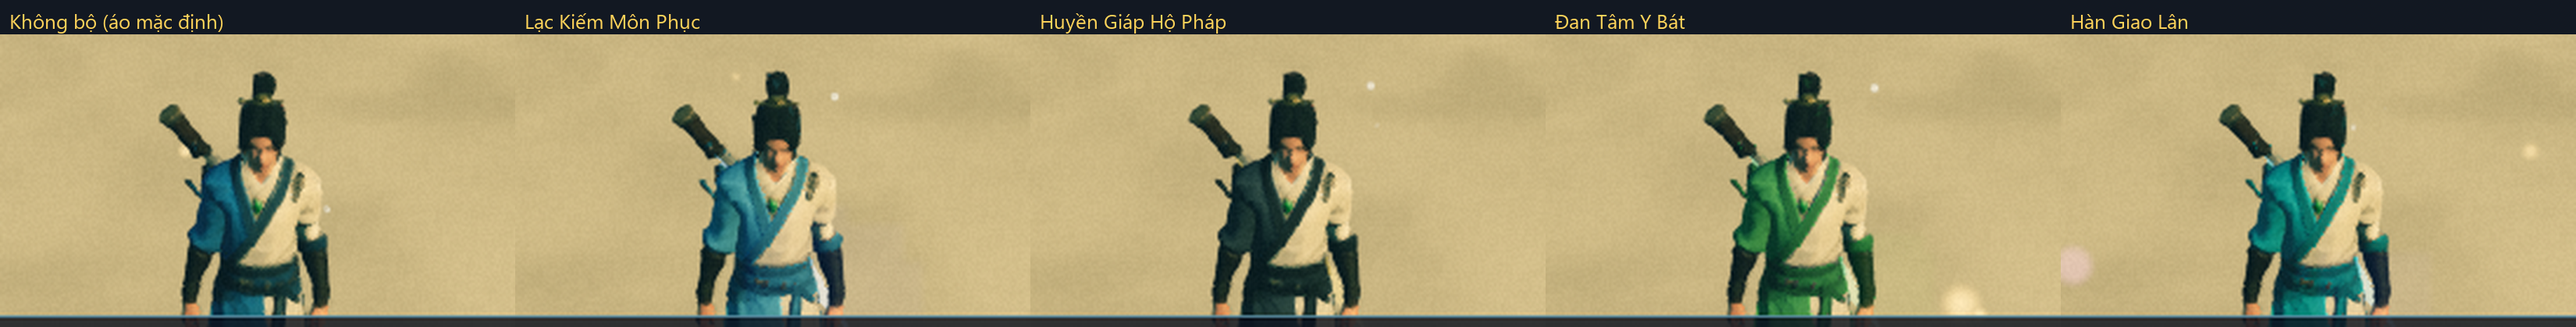
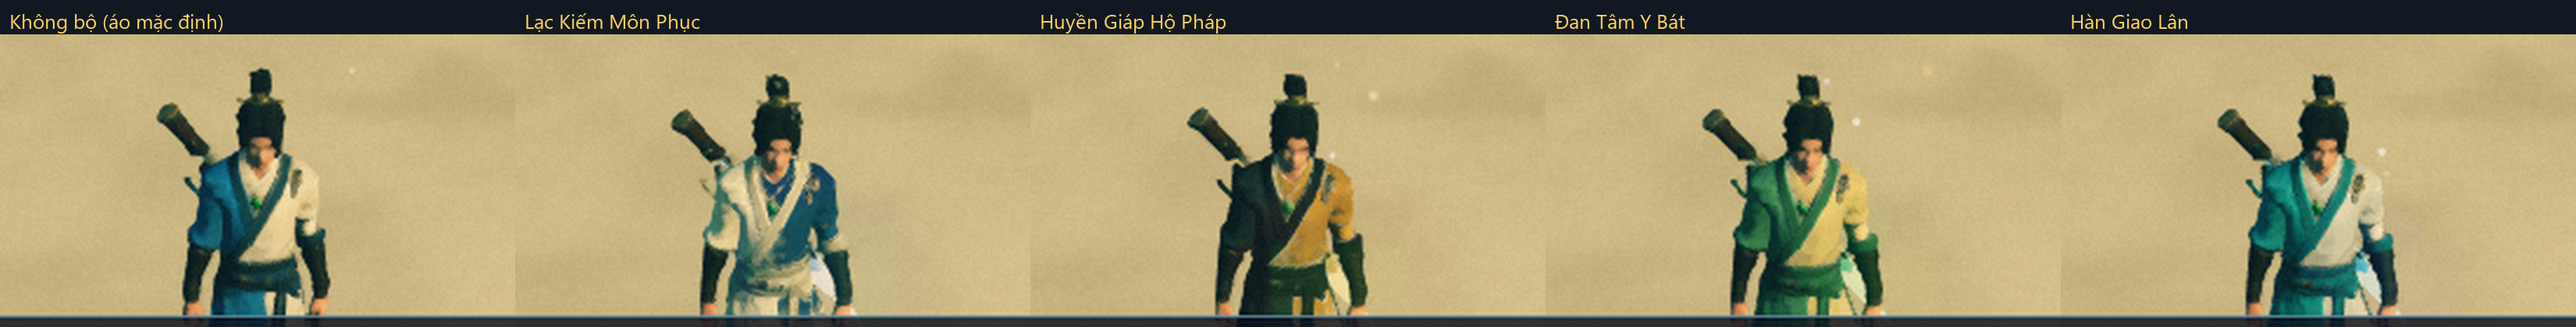
fix: P3-4 phối màu bộ rõ hơn (màu phụ cho vùng vải sáng), kẹp tooltip trong khung nhìn

diff --git a/apps/client/src/game/character/dye.ts b/apps/client/src/game/character/dye.ts
@@ -18,6 +18,10 @@ const LUMA = new THREE.Vector3(0.2126, 0.7152, 0.0722);
 /** Ngưỡng cos(góc) giữa sắc độ texel và sắc độ vải. */
 const COS_LO = 0.7;
 const COS_HI = 0.85;
+/** Vùng vải sáng (ngà) cho màu phụ của bộ: ngưỡng độ sáng tuyến tính và độ sáng tham chiếu của vải ngà. */
+const ACCENT_LO = 0.5;
+const ACCENT_HI = 0.68;
+const ACCENT_REF = 0.75;
 /** Ngưỡng độ bão hòa tương đối (|sắc độ| / độ sáng trung bình). */
 const SAT_LO = 0.12;
 const SAT_HI = 0.24;
@@ -37,8 +41,8 @@ function linear(hex: string): THREE.Color {
  * Gắn `colorNode` nhuộm áo vào material đã chuyển từ glTF (giữ map, color, alpha của nó).
  * `clothRef`: màu vải trong texture (hex sRGB); `dye`: màu áo đã chọn. Cùng màu thì giữ nguyên material.
  */
-export function applyDye(m: THREE.MeshStandardNodeMaterial, clothRef: string, dye: string): THREE.MeshStandardNodeMaterial {
-  if (clothRef.toLowerCase() === dye.toLowerCase()) return m;
+export function applyDye(m: THREE.MeshStandardNodeMaterial, clothRef: string, dye: string, accent?: string): THREE.MeshStandardNodeMaterial {
+  if (!accent && clothRef.toLowerCase() === dye.toLowerCase()) return m;
   const ref = linear(clothRef);
   const target = linear(dye);
   const dir = chromaDir(ref);
@@ -56,7 +60,17 @@ export function applyDye(m: THREE.MeshStandardNodeMaterial, clothRef: string, dy
   const ratio = dot(c, vec3(LUMA.x, LUMA.y, LUMA.z)).div(refLum);
   const gamma = targetLum > refLum ? 0.6 : 1;
   const dyed = min(vec3(target.r, target.g, target.b).mul(pow(ratio, float(gamma))), vec3(1, 1, 1));
-  m.colorNode = vec4(mix(c, dyed, mask), base.a);
+  let out = mix(c, dyed, mask);
+  if (accent) {
+    // Bộ trang bị: vùng vải sáng (áo trong màu ngà, nẹp) đổi sang màu phụ của bộ, giữ vân và nếp gấp theo độ sáng texel.
+    // Da và tóc nằm dưới ngưỡng độ sáng này nên không bị đụng tới.
+    const acc = linear(accent);
+    const lum = dot(c, vec3(LUMA.x, LUMA.y, LUMA.z));
+    const light = smoothstep(ACCENT_LO, ACCENT_HI, lum).mul(float(1).sub(mask));
+    const tinted = min(vec3(acc.r, acc.g, acc.b).mul(lum.div(ACCENT_REF)), vec3(1, 1, 1));
+    out = mix(out, tinted, light);
+  }
+  m.colorNode = vec4(out, base.a);
   m.needsUpdate = true;
   return m;
 }

diff --git a/apps/client/src/game/character/playerSkins.ts b/apps/client/src/game/character/playerSkins.ts
@@ -102,7 +102,7 @@ function modelOf(g: string): string | null {
 function dyeOf(id: string, set?: string) {
   const look = set ? SET.get(set)?.look : undefined;
   // Bộ trang bị nhuộm áo bằng chính cơ chế `applyDye` (tham số material), id riêng để không đụng cache màu thường.
-  if (look) return { id: `set:${set}`, hex: look.hex, trim: look.trim };
+  if (look) return { id: `set:${set}`, hex: look.hex, trim: look.trim, accent: look.trim };
   return DYE.get(id) ?? DYE.get(APPEARANCE.defaultDye)!;
 }
 
@@ -141,7 +141,7 @@ export class PlayerSkins {
     if (id && skin && !this.legacy) this.load(id);
     const t = id && skin && !this.legacy ? this.templates.get(id) : undefined;
     if (!id || !skin || !t || typeof t === 'string') return new Humanoid({ robe: dye.hex, trim: dye.trim, sword: true });
-    return this.build(id, skin, t, this.material(id, skin, t, dye.id, dye.hex));
+    return this.build(id, skin, t, this.material(id, skin, t, dye.id, dye.hex, 'accent' in dye ? dye.accent : undefined));
   }
 
   /** Asset người của `look` chưa nạp xong (bóng tâm ma tạm dùng model khối của quái). */
@@ -249,7 +249,7 @@ export class PlayerSkins {
     return m;
   }
 
-  private material(id: string, skin: PlayerSkin, t: Template, dyeId: string, hex: string): THREE.MeshStandardNodeMaterial {
+  private material(id: string, skin: PlayerSkin, t: Template, dyeId: string, hex: string, accent?: string): THREE.MeshStandardNodeMaterial {
     const key = `${id}/${dyeId}`;
     let m = this.mats.get(key);
     if (m) return m;
@@ -258,7 +258,7 @@ export class PlayerSkins {
       const mesh = o as THREE.Mesh;
       if (!src && mesh.isMesh) src = Array.isArray(mesh.material) ? mesh.material[0] : mesh.material;
     });
-    m = adoptGltfMaterials(new THREE.Mesh(undefined, src ?? undefined), (x) => applyDye(x, skin.clothRef, hex))[0];
+    m = adoptGltfMaterials(new THREE.Mesh(undefined, src ?? undefined), (x) => applyDye(x, skin.clothRef, hex, accent))[0];
     this.mats.set(key, m);
     return m;
   }

diff --git a/apps/client/src/ui/kit/Tooltip.tsx b/apps/client/src/ui/kit/Tooltip.tsx
@@ -33,6 +33,8 @@ export function Tooltip({ content, children }: { content: ReactNode; children: R
     const b = tip.current.getBoundingClientRect();
     let y = a.top - b.height - GAP;
     if (y < MARGIN) y = a.bottom + GAP;
+    // Hết chỗ cả hai phía (chú giải dài): ép vào trong màn hình, chấp nhận che nhẹ ô gốc thay vì tràn mép dưới.
+    y = Math.max(MARGIN, Math.min(y, window.innerHeight - b.height - MARGIN));
     const x = Math.min(Math.max(MARGIN, a.left + a.width / 2 - b.width / 2), window.innerWidth - b.width - MARGIN);
     setPos({ x, y });
   }, [open, content]);

diff --git a/docs/p3-4/README.md b/docs/p3-4/README.md
@@ -33,3 +33,7 @@ Lưu ý: thiết kế ghi cả Huyền Giáp lẫn Đan Tâm rơi ở đợt 4 (
 - Security (`pnpm --filter @dtl/bot-client security`): 62/62 đạt.
 - 100 bot × 120 giây: tick p95 ≤ 0,82 ms; `pnpm ledger:check` khớp toàn bộ ngoài nhân vật thử chụp ảnh (lệnh GM `set off` cũ xóa đồ không qua sổ cái; đã sửa thành cất vào túi).
 - `pnpm bench:client`: chỉ chạy xong cấu hình đầu (WebGPU nvidia/low, báo 93 lỗi console của bench) rồi bị dừng tay do quá lâu, nên không có bảng so sánh đầy đủ. Thay bằng `__game.info()` với WebGPU thật khi mặc đủ bộ: 39–84 draw call, 188k–304k tam giác (ngân sách < 300 draw call), console game không lỗi. Bộ không thêm mesh mới; ánh kiếm dùng lại `SwordGlow` (1 mesh). Cần chạy lại `bench:client` đủ 6 cấu hình trước khi merge nếu muốn số liệu chính thức.
+
+## Phối màu (sau soát)
+
+`applyDye` nhận thêm màu phụ: vải lam đổi sang màu chính của bộ, vùng vải sáng (áo trong ngà) đổi sang màu phụ, giữ vân theo độ sáng texel (da, tóc dưới ngưỡng nên không bị đụng). Lạc Kiếm ngà + lam đậm, Huyền Giáp đen sắt + đồng vàng, Đan Tâm ngọc bích trầm + vàng nhạt, Hàn Giao Lân lam ngọc + bạc băng. Đai và ống tay đen của model vẫn giữ nguyên (cùng màu với tóc nên chưa tách được bằng ngưỡng độ sáng); chưa thêm vân vảy.
